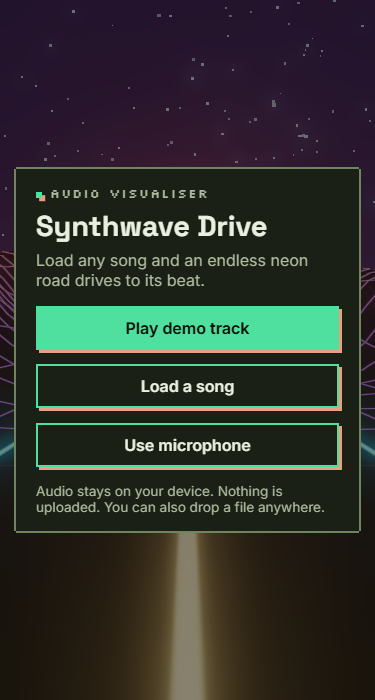
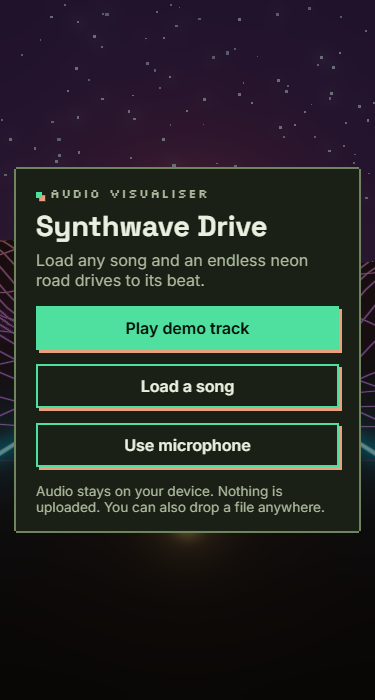
refactor: shared util, one gain source, fewer per-frame allocations

diff --git a/src/scene/index.ts b/src/scene/index.ts
@@ -1,6 +1,8 @@
 import { ACESFilmicToneMapping, Color, SRGBColorSpace, PerspectiveCamera, Scene, WebGLRenderer } from "three";
 import type { ShaderMaterial } from "three";
-import { clamp01, driveSpeed, ease } from "./speed";
+import { driveSpeed } from "./speed";
+import { clamp01, ease, zeroFeatures } from "../util";
+import type { Features } from "../util";
 import { createLook } from "./look";
 import { createPost } from "./post";
 import { createQuality } from "./quality";
@@ -8,12 +10,9 @@ import { createStars } from "./stars";
 import { createSun } from "./sun";
 import { createTerrain, FOG } from "./terrain";
 
-export interface Features { beat: number; energy: number; bass: number; mid: number; high: number; bpm: number;
-  /** Slow per-song profile; surge is smoothed 0..1. All 0 = idle look. */
-  slowBass: number; slowMid: number; slowHigh: number; variance: number; surge: number }
-export interface SceneOpts { reducedMotion?: boolean }
+export type { Features };
+export interface SceneOpts { reducedMotion?: boolean; fixedQuality?: number }
 
-const defaults = (): Features => ({ beat: 0, energy: 0, bass: 0, mid: 0, high: 0, bpm: 110, slowBass: 0, slowMid: 0, slowHigh: 0, variance: 0, surge: 0 });
 const uni = (o: { material: unknown }) => (o.material as ShaderMaterial).uniforms as Record<string, { value: number }>;
 
 export function createScene(canvas: HTMLCanvasElement, opts: SceneOpts = {}) {
@@ -30,15 +29,13 @@ export function createScene(canvas: HTMLCanvasElement, opts: SceneOpts = {}) {
   const post = createPost(renderer, scene, camera);
   const tu = uni(terrain), sunU = uni(sun), su = uni(stars);
 
-  const look = createLook();
-  let f = defaults(), speed = driveSpeed(0, reduced), travel = 0, time = 0, starTime = 0, last = performance.now(), raf = 0;
+  const look = createLook(reduced);
+  let f = zeroFeatures(), speed = driveSpeed(0, reduced), travel = 0, time = 0, starTime = 0, last = performance.now(), raf = 0;
 
-  let quality = 0;
-  const pinned = new URLSearchParams(location.search).get("quality") === "0"; // e2e: keep full quality under slow software GL
   const q = createQuality();
   const resize = () => {
     const w = canvas.clientWidth || window.innerWidth, h = canvas.clientHeight || window.innerHeight;
-    const dpr = quality >= 2 ? 1 : Math.min(window.devicePixelRatio || 1, 2);
+    const quality = opts.fixedQuality ?? q.level, dpr = quality >= 2 ? 1 : Math.min(window.devicePixelRatio || 1, 2);
     renderer.setPixelRatio(dpr);
     renderer.setSize(w, h, false);
     post.setSize(w, h, dpr, quality);
@@ -51,35 +48,33 @@ export function createScene(canvas: HTMLCanvasElement, opts: SceneOpts = {}) {
   window.addEventListener("resize", resize);
 
   const render = (dt = 0) => {
-    const beat = reduced ? f.beat * 0.4 : f.beat;
     const L = look.update(f, dt);
-    speed = ease(speed, driveSpeed(f.energy, reduced, f.bpm) * (1 + L.surge * (reduced ? 0.08 : 0.4)), dt);
+    speed = ease(speed, driveSpeed(f.energy, reduced, f.bpm) * (1 + L.speedBoost), dt);
     travel += speed * dt;
     time += dt;
-    starTime += dt * (1 + L.surge * (reduced ? 0 : 3));
-    tu.uTravel!.value = travel; tu.uBeat!.value = beat; tu.uMid!.value = clamp01(f.mid);
-    tu.uBass!.value = reduced ? L.bass * 0.4 : L.bass; tu.uRough!.value = L.rough; tu.uTilt!.value = L.tilt; tu.uSurge!.value = L.surge * (reduced ? 0.4 : 1);
+    starTime += dt * (1 + L.starBoost);
+    tu.uTravel!.value = travel; tu.uBeat!.value = L.beat; tu.uMid!.value = clamp01(f.mid);
+    tu.uBass!.value = L.bass; tu.uRough!.value = L.rough; tu.uTilt!.value = L.tilt; tu.uSurge!.value = L.surge;
     sunU.uShare!.value = L.share;
-    sunU.uBeat!.value = beat;
-    sun.scale.setScalar(55 * (1 + beat * 0.06));
+    sunU.uBeat!.value = L.beat;
+    sun.scale.setScalar(55 * (1 + L.beat * 0.06));
     su.uTime!.value = starTime; su.uHigh!.value = clamp01(f.high);
-    post.bloom.strength = (0.8 + (reduced ? 0 : beat * 1.2) + L.surge * (reduced ? 0.1 : 0.35)) * (canvas.clientWidth < 768 ? 0.4 : 1); // half-res bloom is brighter
-    camera.position.y = 1.8 + (reduced ? 0 : beat * 0.08);
+    post.bloom.strength = (0.8 + L.bloomBeat + L.bloomSurge) * post.gain;
+    camera.position.y = 1.8 + L.camBeat;
     post.composer.render(dt);
   };
 
   const loop = (now: number) => {
     const raw = (now - last) / 1000, dt = Math.min(raw, 0.1);
     last = now;
-    const lv = pinned ? null : q.sample(raw);
-    if (lv !== null) { quality = lv; resize(); }
+    if (opts.fixedQuality === undefined && q.sample(raw) !== null) resize();
     render(dt);
     raf = requestAnimationFrame(loop);
   };
   raf = requestAnimationFrame(loop);
 
   return {
-    setFeatures: (next: Partial<Features>) => { f = { ...defaults(), ...next }; },
+    setFeatures: (next: Partial<Features>) => { f = { ...zeroFeatures(), ...next }; },
     render,
     dispose: () => {
       cancelAnimationFrame(raf);

diff --git a/src/audio/profile.ts b/src/audio/profile.ts
@@ -1,6 +1,6 @@
 // Slow per-song profile: ~8 s EMAs of band levels, energy variance, and a hysteretic "surge" flag.
+import { ease, type Slow } from "../util";
 export interface ProfileIn { bass: number; mid: number; high: number; energy: number }
-export interface Profile extends ProfileIn { variance: number; surge: boolean }
 
 const SLOW_TAU = 8, FAST_TAU = 0.3;
 const WARMUP = 10, MIN_ENERGY = 0.12; // no surge before ~10 s of data or on near-silence
@@ -8,20 +8,20 @@ const ON_MARGIN = 0.12, ON_HOLD = 2, OFF_MARGIN = 0.04, OFF_HOLD = 1;
 const VAR_SCALE = 0.04; // variance of ~0.2 energy swing -> 1
 
 export function createProfile() {
-  let s = { bass: 0, mid: 0, high: 0, energy: 0 };
+  const s = { bass: 0, mid: 0, high: 0, energy: 0 };
+  const out: Slow = { slowBass: 0, slowMid: 0, slowHigh: 0, variance: 0, surge: 0 };
   let age = 0, fast = 0, v = 0, up = 0, down = 0, surge = false, seeded = false;
-  const a = (dt: number, tau: number) => 1 - Math.exp(-dt / tau);
 
   return {
-    update(f: ProfileIn, dt: number): Profile {
-      if (!seeded) { s = { bass: f.bass, mid: f.mid, high: f.high, energy: f.energy }; fast = f.energy; seeded = true; }
+    /** Returns a shared object, overwritten on the next call. */
+    update(f: ProfileIn, dt: number): Slow {
+      if (!seeded) { Object.assign(s, { bass: f.bass, mid: f.mid, high: f.high, energy: f.energy }); fast = f.energy; seeded = true; }
       age += dt;
-      const k = a(dt, SLOW_TAU);
-      s.bass += (f.bass - s.bass) * k; s.mid += (f.mid - s.mid) * k;
-      s.high += (f.high - s.high) * k; s.energy += (f.energy - s.energy) * k;
-      fast += (f.energy - fast) * a(dt, FAST_TAU);
+      s.bass = ease(s.bass, f.bass, dt, 1 / SLOW_TAU); s.mid = ease(s.mid, f.mid, dt, 1 / SLOW_TAU);
+      s.high = ease(s.high, f.high, dt, 1 / SLOW_TAU); s.energy = ease(s.energy, f.energy, dt, 1 / SLOW_TAU);
+      fast = ease(fast, f.energy, dt, 1 / FAST_TAU);
       const d = f.energy - s.energy;
-      v += (d * d - v) * k;
+      v = ease(v, d * d, dt, 1 / SLOW_TAU);
       if (!surge) {
         up = age > WARMUP && fast > MIN_ENERGY && fast > s.energy + ON_MARGIN ? up + dt : 0;
         if (up > ON_HOLD) { surge = true; down = 0; }
@@ -29,8 +29,10 @@ export function createProfile() {
         down = fast < s.energy + OFF_MARGIN ? down + dt : 0;
         if (down > OFF_HOLD) { surge = false; up = 0; }
       }
-      return { ...s, variance: Math.min(1, v / VAR_SCALE), surge };
+      out.slowBass = s.bass; out.slowMid = s.mid; out.slowHigh = s.high;
+      out.variance = Math.min(1, v / VAR_SCALE); out.surge = surge ? 1 : 0;
+      return out;
     },
-    reset() { s = { bass: 0, mid: 0, high: 0, energy: 0 }; age = fast = v = up = down = 0; surge = seeded = false; },
+    reset() { age = fast = v = up = down = 0; surge = seeded = false; },
   };
 }

diff --git a/src/audio/engine.ts b/src/audio/engine.ts
@@ -1,20 +1,19 @@
 import { createBeatDetector, lowBandRange } from "./beat";
 import { createFeatures } from "./features";
 import { createProfile } from "./profile";
+import { zeroFeatures, type Features } from "../util";
 import type { Audio } from "./input";
 
-export interface Frame { beat: number; energy: number; bass: number; mid: number; high: number; bpm: number | null;
-  slowBass: number; slowMid: number; slowHigh: number; variance: number; surge: number }
+export type Frame = Features;
 
-/** tick(nowMs): call once per animation frame (rAF timestamp). beat is a decaying 0..1 pulse. */
+/** tick(nowMs): call once per animation frame (rAF timestamp). beat is a decaying 0..1 pulse. Returns a shared Frame, overwritten each tick: copy to retain. */
 export function createEngine(audio: Audio) {
-  let bytes = new Uint8Array(1024);
+  let bytes = new Uint8Array(1024), bandView = bytes.subarray(1, 2);
   let det: ReturnType<typeof createBeatDetector> | null = null;
   let feat: ReturnType<typeof createFeatures> | null = null;
-  let band: [number, number] = [1, 2];
   const profile = createProfile();
   let lastMs = 0, gen = 0;
-  const idle: Frame = { beat: 0, energy: 0, bass: 0, mid: 0, high: 0, bpm: null, slowBass: 0, slowMid: 0, slowHigh: 0, variance: 0, surge: 0 };
+  const idle = zeroFeatures(), frame = zeroFeatures();
 
   return {
     tick(nowMs: number): Frame {
@@ -24,16 +23,18 @@ export function createEngine(audio: Audio) {
       if (!det || !feat) {
         det = createBeatDetector({ sampleRateHz: ctx.sampleRate });
         feat = createFeatures(ctx.sampleRate);
-        band = lowBandRange(ctx.sampleRate);
+        const band = lowBandRange(ctx.sampleRate);
         bytes = new Uint8Array(an.frequencyBinCount);
+        bandView = bytes.subarray(band[0], band[1]);
       }
       const dt = lastMs ? Math.min(0.1, (nowMs - lastMs) / 1000) : 1 / 60;
       lastMs = nowMs;
       an.getByteFrequencyData(bytes);
-      const { beat } = det.push(bytes.subarray(band[0], band[1]), nowMs / 1000);
+      const { beat } = det.push(bandView, nowMs / 1000);
       const f = feat.update(bytes, dt);
-      const p = profile.update(f, dt);
-      return { ...f, beat: feat.pulse(beat, dt), bpm: det.bpm(), slowBass: p.bass, slowMid: p.mid, slowHigh: p.high, variance: p.variance, surge: p.surge ? 1 : 0 };
+      Object.assign(frame, f, profile.update(f, dt));
+      frame.beat = feat.pulse(beat, dt); frame.bpm = det.bpm();
+      return frame;
     },
   };
 }

diff --git a/src/scene/look.ts b/src/scene/look.ts
@@ -1,12 +1,13 @@
-import { clamp01, ease } from "./speed";
+import { clamp01, ease, type Slow } from "../util";
 
-export interface LookIn { bass: number; slowBass: number; slowMid: number; slowHigh: number; variance: number; surge: number }
+export interface LookIn extends Slow { bass: number; beat: number }
 
-/** Eases the slow per-song profile into 0..1 look parameters. All zero when there is no audio. */
-export function createLook() {
+/** Eases the slow per-song profile into look parameters, with reduced-motion attenuation applied. All zero when there is no audio. */
+export function createLook(reduced: boolean) {
   const s = { bass: 0, tilt: 0, share: 0, rough: 0, surge: 0 };
+  const L = { beat: 0, bass: 0, tilt: 0, share: 0, rough: 0, surge: 0, speedBoost: 0, starBoost: 0, bloomBeat: 0, bloomSurge: 0, camBeat: 0 };
+  const r = reduced;
   return {
-    s,
     update(f: LookIn, dt: number) {
       const tot = f.slowBass + f.slowMid + f.slowHigh + 0.05;
       s.bass = ease(s.bass, clamp01(f.bass), dt, 4);
@@ -14,7 +15,16 @@ export function createLook() {
       s.share = ease(s.share, clamp01((f.slowBass / tot) * 1.6), dt, 0.4);
       s.rough = ease(s.rough, clamp01(f.variance), dt, 0.4);
       s.surge = ease(s.surge, clamp01(f.surge), dt, 0.8);
-      return s;
+      L.beat = r ? f.beat * 0.4 : f.beat;
+      L.bass = r ? s.bass * 0.4 : s.bass;
+      L.tilt = s.tilt; L.share = s.share; L.rough = s.rough;
+      L.surge = s.surge * (r ? 0.4 : 1);
+      L.speedBoost = s.surge * (r ? 0.08 : 0.4);
+      L.starBoost = r ? 0 : s.surge * 3;
+      L.bloomBeat = r ? 0 : f.beat * 1.2;
+      L.bloomSurge = s.surge * (r ? 0.1 : 0.35);
+      L.camBeat = r ? 0 : f.beat * 0.08;
+      return L;
     },
   };
 }

diff --git a/tests/unit/profile.test.ts b/tests/unit/profile.test.ts
@@ -12,24 +12,24 @@ describe("profile", () => {
   it("steady input never surges", () => {
     const p = createProfile();
     const r = run(p, 0.3, 30);
-    expect(r.surge).toBe(false);
-    expect(r.energy).toBeCloseTo(0.3, 2);
+    expect(r.surge).toBe(0);
+    expect(r.slowBass).toBeCloseTo(0.3, 2);
     expect(r.variance).toBeLessThan(0.01);
   });
   it("sustained jump surges, then releases when it drops", () => {
     const p = createProfile();
     run(p, 0.2, 20);
-    expect(run(p, 0.7, 1).surge).toBe(false); // not yet held long enough
-    expect(run(p, 0.7, 2).surge).toBe(true);
-    expect(run(p, 0.2, 3).surge).toBe(false);
+    expect(run(p, 0.7, 1).surge).toBe(0); // not yet held long enough
+    expect(run(p, 0.7, 2).surge).toBe(1);
+    expect(run(p, 0.2, 3).surge).toBe(0);
   });
   it("no surge during warm-up or near silence", () => {
     const p = createProfile();
     run(p, 0.05, 1);
-    expect(run(p, 0.6, 5).surge).toBe(false);
+    expect(run(p, 0.6, 5).surge).toBe(0);
     const q = createProfile();
     run(q, 0.01, 20);
-    expect(run(q, 0.1, 5).surge).toBe(false);
+    expect(run(q, 0.1, 5).surge).toBe(0);
   });
   it("reset clears", () => {
     const p = createProfile();
@@ -37,8 +37,8 @@ describe("profile", () => {
     run(p, 0.7, 4);
     p.reset();
     const r = p.update(lvl(0.5), 0.016);
-    expect(r.surge).toBe(false);
-    expect(r.energy).toBeCloseTo(0.5, 5);
+    expect(r.surge).toBe(0);
+    expect(r.slowBass).toBeCloseTo(0.5, 5);
     expect(r.variance).toBe(0);
   });
 });

diff --git a/src/scene/post.ts b/src/scene/post.ts
@@ -11,11 +11,13 @@ export function createPost(renderer: WebGLRenderer, scene: Scene, camera: Perspe
   composer.addPass(new RenderPass(scene, camera));
   composer.addPass(bloom);
   composer.addPass(new OutputPass()); // applies renderer tone mapping + sRGB
-  const setSize = (w: number, h: number, dpr: number, level = 0) => {
+  const post = { composer, bloom, gain: 1, setSize(w: number, h: number, dpr: number, level = 0) {
     composer.setPixelRatio(dpr);
     composer.setSize(w, h);
-    const k = (w < 768 ? 0.5 : 1) * (level > 0 ? 0.5 : 1); // half-res bloom on mobile / reduced quality
+    const mobile = w < 768;
+    const k = (mobile ? 0.5 : 1) * (level > 0 ? 0.5 : 1); // half-res bloom on mobile / reduced quality
     if (k < 1) bloom.setSize(w * dpr * k, h * dpr * k);
-  };
-  return { composer, bloom, setSize };
+    post.gain = mobile ? 0.4 : 1; // half-res bloom is brighter; level changes keep the same gain so brightness doesn't drift
+  } };
+  return post;
 }

diff --git a/src/main.ts b/src/main.ts
@@ -4,7 +4,10 @@ import { createScene } from "./scene";
 import { initTheme, initUi } from "./ui";
 
 const canvas = document.getElementById("scene") as HTMLCanvasElement;
-const scene = createScene(canvas, { reducedMotion: matchMedia("(prefers-reduced-motion: reduce)").matches });
+const scene = createScene(canvas, {
+  reducedMotion: matchMedia("(prefers-reduced-motion: reduce)").matches,
+  fixedQuality: new URLSearchParams(location.search).get("quality") === "0" ? 0 : undefined, // e2e: keep full quality under slow software GL
+});
 const audio = createAudio();
 const engine = createEngine(audio);
 initTheme();
@@ -14,6 +17,6 @@ const hud = initUi(audio);
 setInterval(() => {
   if (document.hidden) return;
   const f = engine.tick(performance.now());
-  scene.setFeatures({ ...f, bpm: f.bpm ?? 110 });
+  scene.setFeatures(f);
   hud(f);
 }, 16);

diff --git a/src/util.ts b/src/util.ts
@@ -1,0 +1,12 @@
+export const clamp01 = (v: number) => Math.min(1, Math.max(0, v));
+
+/** Frame-rate independent exponential approach of `cur` toward `target`. */
+export const ease = (cur: number, target: number, dt: number, rate = 3) => cur + (target - cur) * (1 - Math.exp(-rate * dt));
+
+/** Slow per-song profile; surge is 0..1. All 0 = idle look. */
+export interface Slow { slowBass: number; slowMid: number; slowHigh: number; variance: number; surge: number }
+export interface Features extends Slow { beat: number; energy: number; bass: number; mid: number; high: number; bpm: number | null }
+
+/** Fresh zero-valued Features (idle look). */
+export const zeroFeatures = (): Features =>
+  ({ beat: 0, energy: 0, bass: 0, mid: 0, high: 0, bpm: null, slowBass: 0, slowMid: 0, slowHigh: 0, variance: 0, surge: 0 });

diff --git a/src/scene/speed.ts b/src/scene/speed.ts
@@ -1,8 +1,5 @@
-export const clamp01 = (v: number) => Math.min(1, Math.max(0, v));
+import { clamp01 } from "../util";
 
 /** World units per second. Base is tempo-locked: one lane-dash period (6 units) passes every half beat, bpm clamped 70..180 (110 if unknown). Energy adds up to +30. */
 export const driveSpeed = (energy: number, reduced: boolean, bpm?: number | null) =>
   ((Math.min(180, Math.max(70, bpm ?? 110)) * 12) / 60 + 30 * clamp01(energy)) * (reduced ? 0.4 : 1);
-
-/** Frame-rate independent exponential approach of `cur` toward `target`. */
-export const ease = (cur: number, target: number, dt: number, rate = 3) => cur + (target - cur) * (1 - Math.exp(-rate * dt));

diff --git a/src/scene/quality.ts b/src/scene/quality.ts
@@ -1,5 +1,5 @@
 // Adaptive quality: 0 full, 1 bloom res halved again, 2 also DPR 1.
-export const MAX_LEVEL = 2;
+const MAX_LEVEL = 2;
 
 export function createQuality() {
   let level = 0, t = 0, ema = 60, low = 0, high = 0;
@@ -18,5 +18,5 @@ export function createQuality() {
     level = next; low = high = 0; ema = 50; // neutral so the new level is judged fresh
     return level;
   };
-  return { sample };
+  return { sample, get level() { return level; } };
 }

diff --git a/tests/unit/speed.test.ts b/tests/unit/speed.test.ts
@@ -1,5 +1,6 @@
 import { describe, expect, it } from "vitest";
-import { driveSpeed, ease } from "../../src/scene/speed";
+import { driveSpeed } from "../../src/scene/speed";
+import { ease } from "../../src/util";
 
 describe("speed", () => {
   it("idles at a fixed speed and clamps energy", () => {
